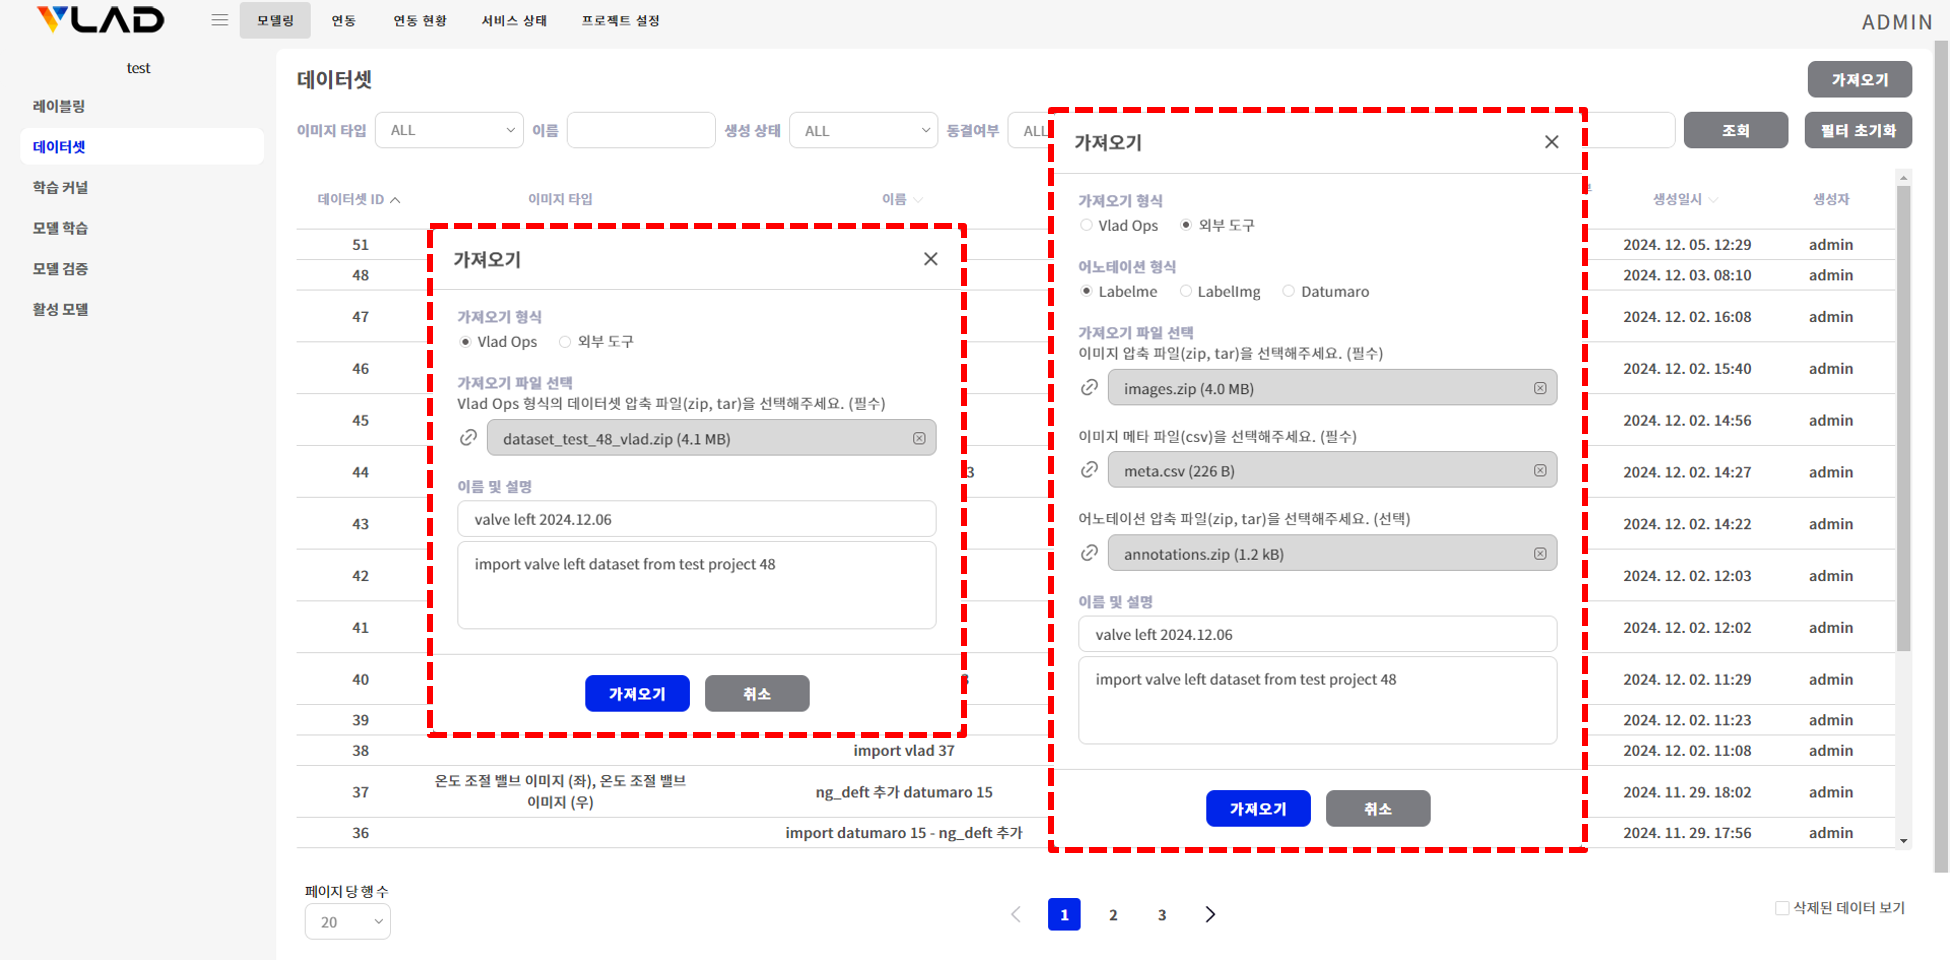
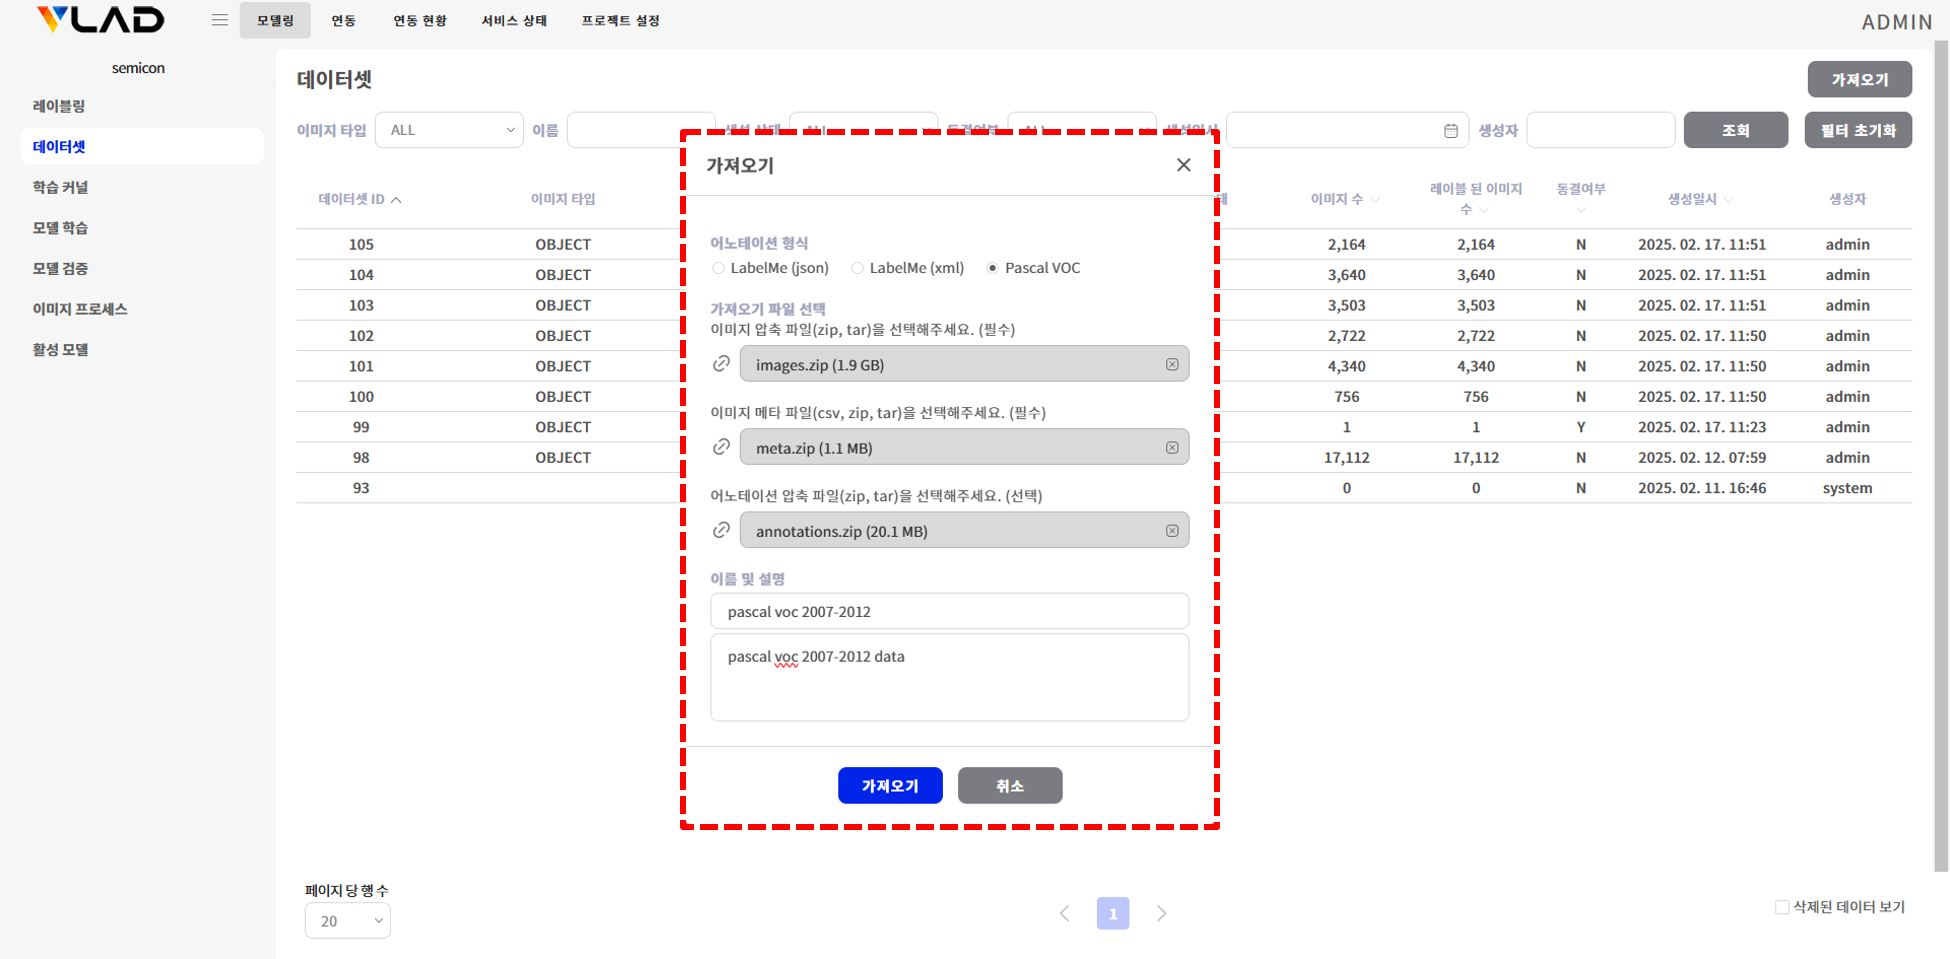
데이터 가져오기/내보내기 수정

diff --git a/docs/.vitepress/locales/ko.js b/docs/.vitepress/locales/ko.js
@@ -185,17 +185,6 @@ function sidebarGuide() {
         {
           text: '데이터 가져오기',
           link: 'dataset-import',
-          collapsed: false,
-          items: [
-            {
-              text: '외부 도구 데이터',
-              link: 'dataset-import-external',
-            },
-            {
-              text: 'Vlad Ops 데이터',
-              link: 'dataset-import-vladops',
-            },
-          ],
         },
         {
           text: '데이터셋 관리',

diff --git a/docs/ko/guide/dataset-import.md b/docs/ko/guide/dataset-import.md
@@ -8,24 +8,125 @@ outline: deep
 
 
 ## 개요
-작성된 데이터셋을 가져와서 새로운 데이터셋을 구성할 수 있습니다.
+데이터셋을 업로드하여 새로운 데이터셋을 구성할 수 있습니다.
 
-### 가져오기 형식
-데이터셋을 가져올 형식을 선택합니다.
+### 어노테이션 형식
+업로드 할 데이터셋에 작성된 어노테이션의 형식을 선택합니다.
 
-::: info 지원하는 가져오기 형식
-- 외부 도구 : 외부 도구에서 작성한 데이터셋을 가져올 수 있습니다. ([상세 정보](./dataset-import-external))
-- Vlad Ops : Vlad Ops 에서 내보내기 한 데이터셋을 가져올 수 있습니다. ([상세 정보](./dataset-import-vladops))
-:::
+  | | LabelMe (json) | LabelMe (xml) | Pascal VOC |
+  | :---: | :---: | :---: | :---: |
+  | 파일 형식 | json | xml | xml |
+  | 사용 도구 | labelme | cvat | labelimg |
+  | 지원하는 shape 종류 | rectangle, polygon | rectangle, polygon | rectangle |
+
 
 ### 가져오기 파일 선택
-데이터 가져오기에 사용될 파일을 선택합니다.  
+업로드 할 파일을 선택합니다.  
 
-|| Vlad Ops | 외부 도구 |
-| :---: | :---: | :---: |
-| 필요 파일 | 데이터셋 파일 (zip, tar)<br>(이미지, 이미지 메타, 어노테이션 포함) | 이미지 압축 파일 (zip, tar)<br>이미지 메타 파일 (csv)<br>어노테이션 압축 파일 (zip, tar) |
+- 이미지 압축 파일 (필수)  
+이미지 압축 파일은 zip 또는 tar 형식으로 압축되어야 하고, 아래와 같이 구성되어야 합니다.  
+```
+[예시 : 가져오려는 이미지 압축 파일(images.zip)의 구성]
+images.zip
+├─ image_01.png
+├─ image_02.png
+├─ ...
+└─ image_0n.png
+```
+
+- 이미지 메타 파일 (필수)  
+이미지 메타 파일은 csv 형식으로 작성되어야 하고,  
+[이미지 메타 데이터 설정](./project-settings-image-meta)에서 추가한 메타 정보가 포함되어야 합니다.
+```
+[예시 : 가져오려는 이미지 메타 파일(meta.csv)의 구성]
+acq_dt,image_type,prod_id,judge_rslt,org_id,obj_id,image_file_nm
+2024-09-12 15:53:35,FRONT,P01,OK,LINE01,0,image_01.png
+2024-09-12 15:58:05,SIDE,P01,OK,LINE01,0,image_02.png
+...
+```
+
+- 어노테이션 압축 파일 (선택)  
+어노테이션 압축 파일은 zip 또는 tar 형식으로 압축되어야 하고,  
+어노테이션 파일명은 이미지 파일명과 동일하게 작성되어야 합니다.
+
+  ```
+  [예시 : 가져오려는 어노테이션 압축 파일(annotations.zip)의 구성]
+  annotations.zip
+  ├─ cl_code_01.cat
+  ├─ cl_code_01.txt
+  ├─ ...
+  ├─ cl_code_0n.cat (cl_code_0n type annotation 에 포함된 카테고리리 목록 파일)
+  ├─ cl_code_0n.txt (전체 이미지에 작성된 cl_code_0n type 어노테이션 정보 파일)
+  ├─ rc.cat (RC Type 어노테이션 타입 목록 파일)
+  ├─ rc.txt (전체 이미지에 작성된 RC Type 어노테이션 정보 파일)
+  ├─ image_01.xml
+  ├─ image_02.xml
+  ├─ ...
+  └─ image_0n.xml (image_0n.png 에 작성된 SEG 또는 OD Type 어노테이션 정보 파일)
+  ```
+  ```
+  [예시 : CL Type 어노테이션 카테고리 목록 파일(CL_VALVE_DEFECTS.cat)의 구성]
+  VALVE_GOOD
+  VALVE_BROKEN_LARGE
+  VALVE_BROKEN_SMALL
+  VALVE_CONTAMINATED
+  ```
+  ```
+  [예시 : CL Type 어노테이션 파일(CL_VALVE_DEFECTS.txt)의 구성]
+  THERMOSTATIC_VALVE_01_L_0_A.png VALVE_GOOD
+  THERMOSTATIC_VALVE_02_L_0_A.png VALVE_CONTAMINATED
+  ```
+  ```
+  [예시 : RC Type 어노테이션 목록 파일(rc.cat)의 구성]
+  RC_TEST
+  ```
+  ```
+  [예시 : RC Type 어노테이션 파일(rc.txt)의 구성]
+  THERMOSTATIC_VALVE_03_L_0_A.png RC_TEST true 1015 1135 168 156
+  THERMOSTATIC_VALVE_03_L_0_A.png RC_TEST false 1227 1422 174 175
+  THERMOSTATIC_VALVE_03_R_0_A.png RC_TEST true 278 168 29 28
+  THERMOSTATIC_VALVE_04_L_0_A.png RC_TEST true 1015 1135 168 156
+  THERMOSTATIC_VALVE_04_R_0_A.png RC_TEST true 278 168 29 28
+  ```
+  ```
+  [예시 : 어노테이션 파일(image_01.xml)의 구성]
+  <annotation>
+    <filename>image_01.png</filename>
+    <folder/>
+    <source>
+      <sourceImage/>
+      <sourceAnnotation>VLADOps</sourceAnnotation>
+    </source>
+    <imagesize>
+      <nrows>512</nrows>
+      <ncols>512</ncols>
+    </imagesize>
+    <object>
+      <name>SEG_VALVE_CRACK</name>
+      <id>0</id>
+      <polygon>
+        <pt>
+          <x>181.0</x>
+          <y>191.0</y>
+        </pt>
+        <pt>
+          <x>181.0</x>
+          <y>211.0</y>
+        </pt>
+        <pt>
+          <x>154.0</x>
+          <y>211.0</y>
+        </pt>
+        <pt>
+          <x>154.0</x>
+          <y>191.0</y>
+        </pt>
+      </polygon>
+    </object>
+  </annotation>
+  ```
 
 ::: info 참고
-현재 제공하지 않는 외부 도구로 작성된 어노테이션의 경우 VLAD Ops 커스터마이징 작업을 거쳐 제공합니다.
+현재 제공하지 않는 어노테이션 형식의 경우 VLAD Ops 커스터마이징 작업을 거쳐 제공합니다.
 :::
 

diff --git a/docs/ko/guide/dataset-export.md b/docs/ko/guide/dataset-export.md
@@ -12,47 +12,17 @@ outline: deep
 
 ::: info 다운로드 파일명 규칙 및 구성
 [파일명 규칙]  
-```dataset_{프로젝트 코드}_{데이터셋 ID}_{어노테이션 파일 포맷}```
+```dataset_{프로젝트 코드}_{데이터셋 ID}_{어노테이션 파일 포맷}.zip```
 
 [예시]  
-내보낼 데이터셋의 프로젝트 코드가 `test` 이고 데이터셋 ID 가 `48` 인 경우
-`vlad` 포맷으로 내보내기를 한다면,
-다운로드 파일명은 `dataset_test_48_vlad.zip` 이 됩니다.
+내보낼 데이터셋의 프로젝트 코드가 `test` 이고 데이터셋 ID 가 `48` 인 경우,  
+`LabelMe (xml)` 포맷으로 내보내면 다운로드 파일명은 `dataset_test_48_vlad.zip` 이 됩니다.
 
-  ```
-  [예시 : vlad 포맷으로 내보낸 파일의 구조]
-  dataset_test_48_vlad.zip
-  ├─ meta.csv
-  ├─ annotations
-  │ ├─ cl.txt
-  │ ├─ cl.cat
-  │ ├─ rc.txt
-  │ ├─ rc.cat
-  │ ├─ image01.xml
-  │ ├─ ...
-  │ └─ image0n.xml
-  └─ images
-    ├─ image01.png
-    ├─ ...
-    ├─ image0n.png
-    └─ image0n.xml
+[데이터셋 파일 구조]
+![데이터셋 파일 구조](/ko/data/dataset-export-file-structure.png)
 
-  [예시 : labelme 포맷으로 내보낸 파일의 구조]
-  dataset_test_48_labelme.zip
-  ├─ meta.csv
-  └─ images
-    ├─ cl.txt
-    ├─ cl.cat
-    ├─ rc.txt
-    ├─ rc.cat
-    ├─ image01.png
-    ├─ image01.json
-    ├─ ...
-    ├─ image0n.png
-    └─ image0n.json
-  ```
-```※ cl.txt, cl.cat 파일은 데이터셋에 CL Type 으로 작성된 어노테이션이 있는 경우 생성```<br>
-```※ rc.txt, rc.cat 파일은 데이터셋에 RC Type 으로 작성된 어노테이션이 있는 경우 생성```<br>
-```※ image0n.xml (json) 파일은 image0n.png 에 SEG 또는 OD Type 으로 작성된 어노테이션이 있는 경우 생성```
+```※ {cl_type_code_0n}.txt 파일은 CL Type 으로 작성된 어노테이션이 있는 경우 생성```<br>
+```※ rc.txt 파일은 RC Type 으로 작성된 어노테이션이 있는 경우 생성```<br>
+```※ image_0n.xml(json) 파일은 image_0n.png 파일에 SEG 또는 OD Type 으로 작성된 어노테이션이 있는 경우 생성```
 :::
 
